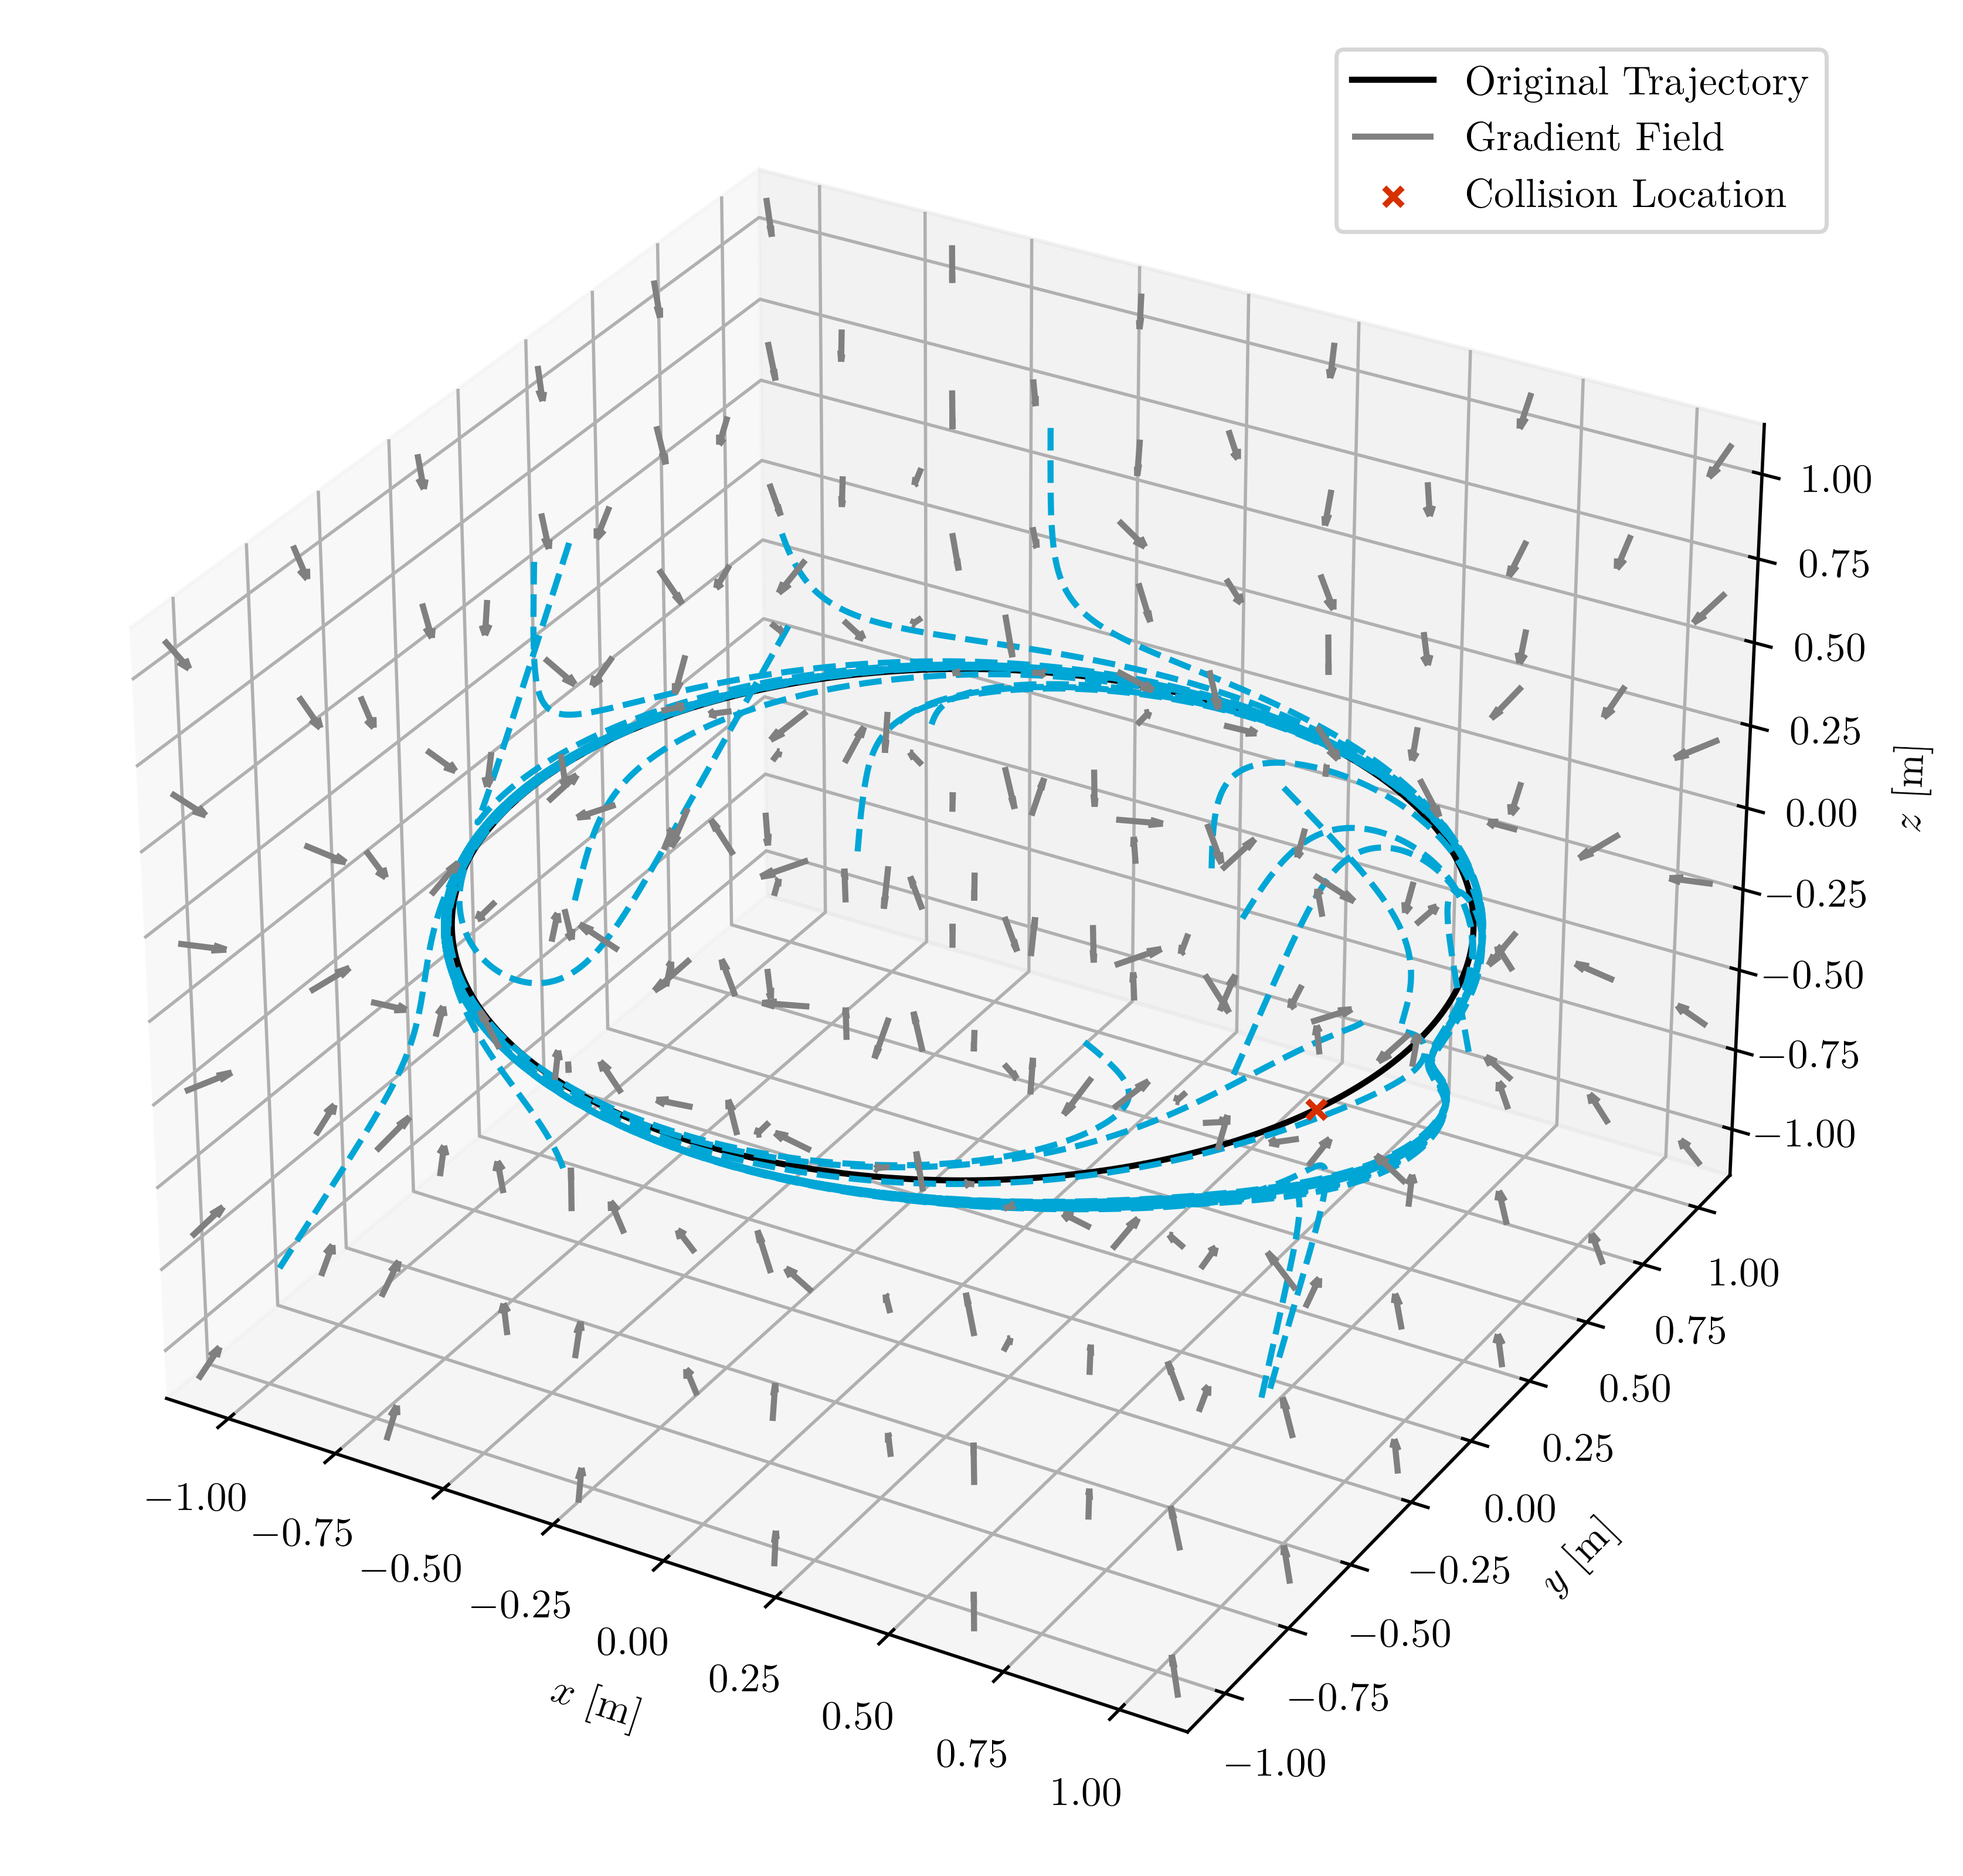
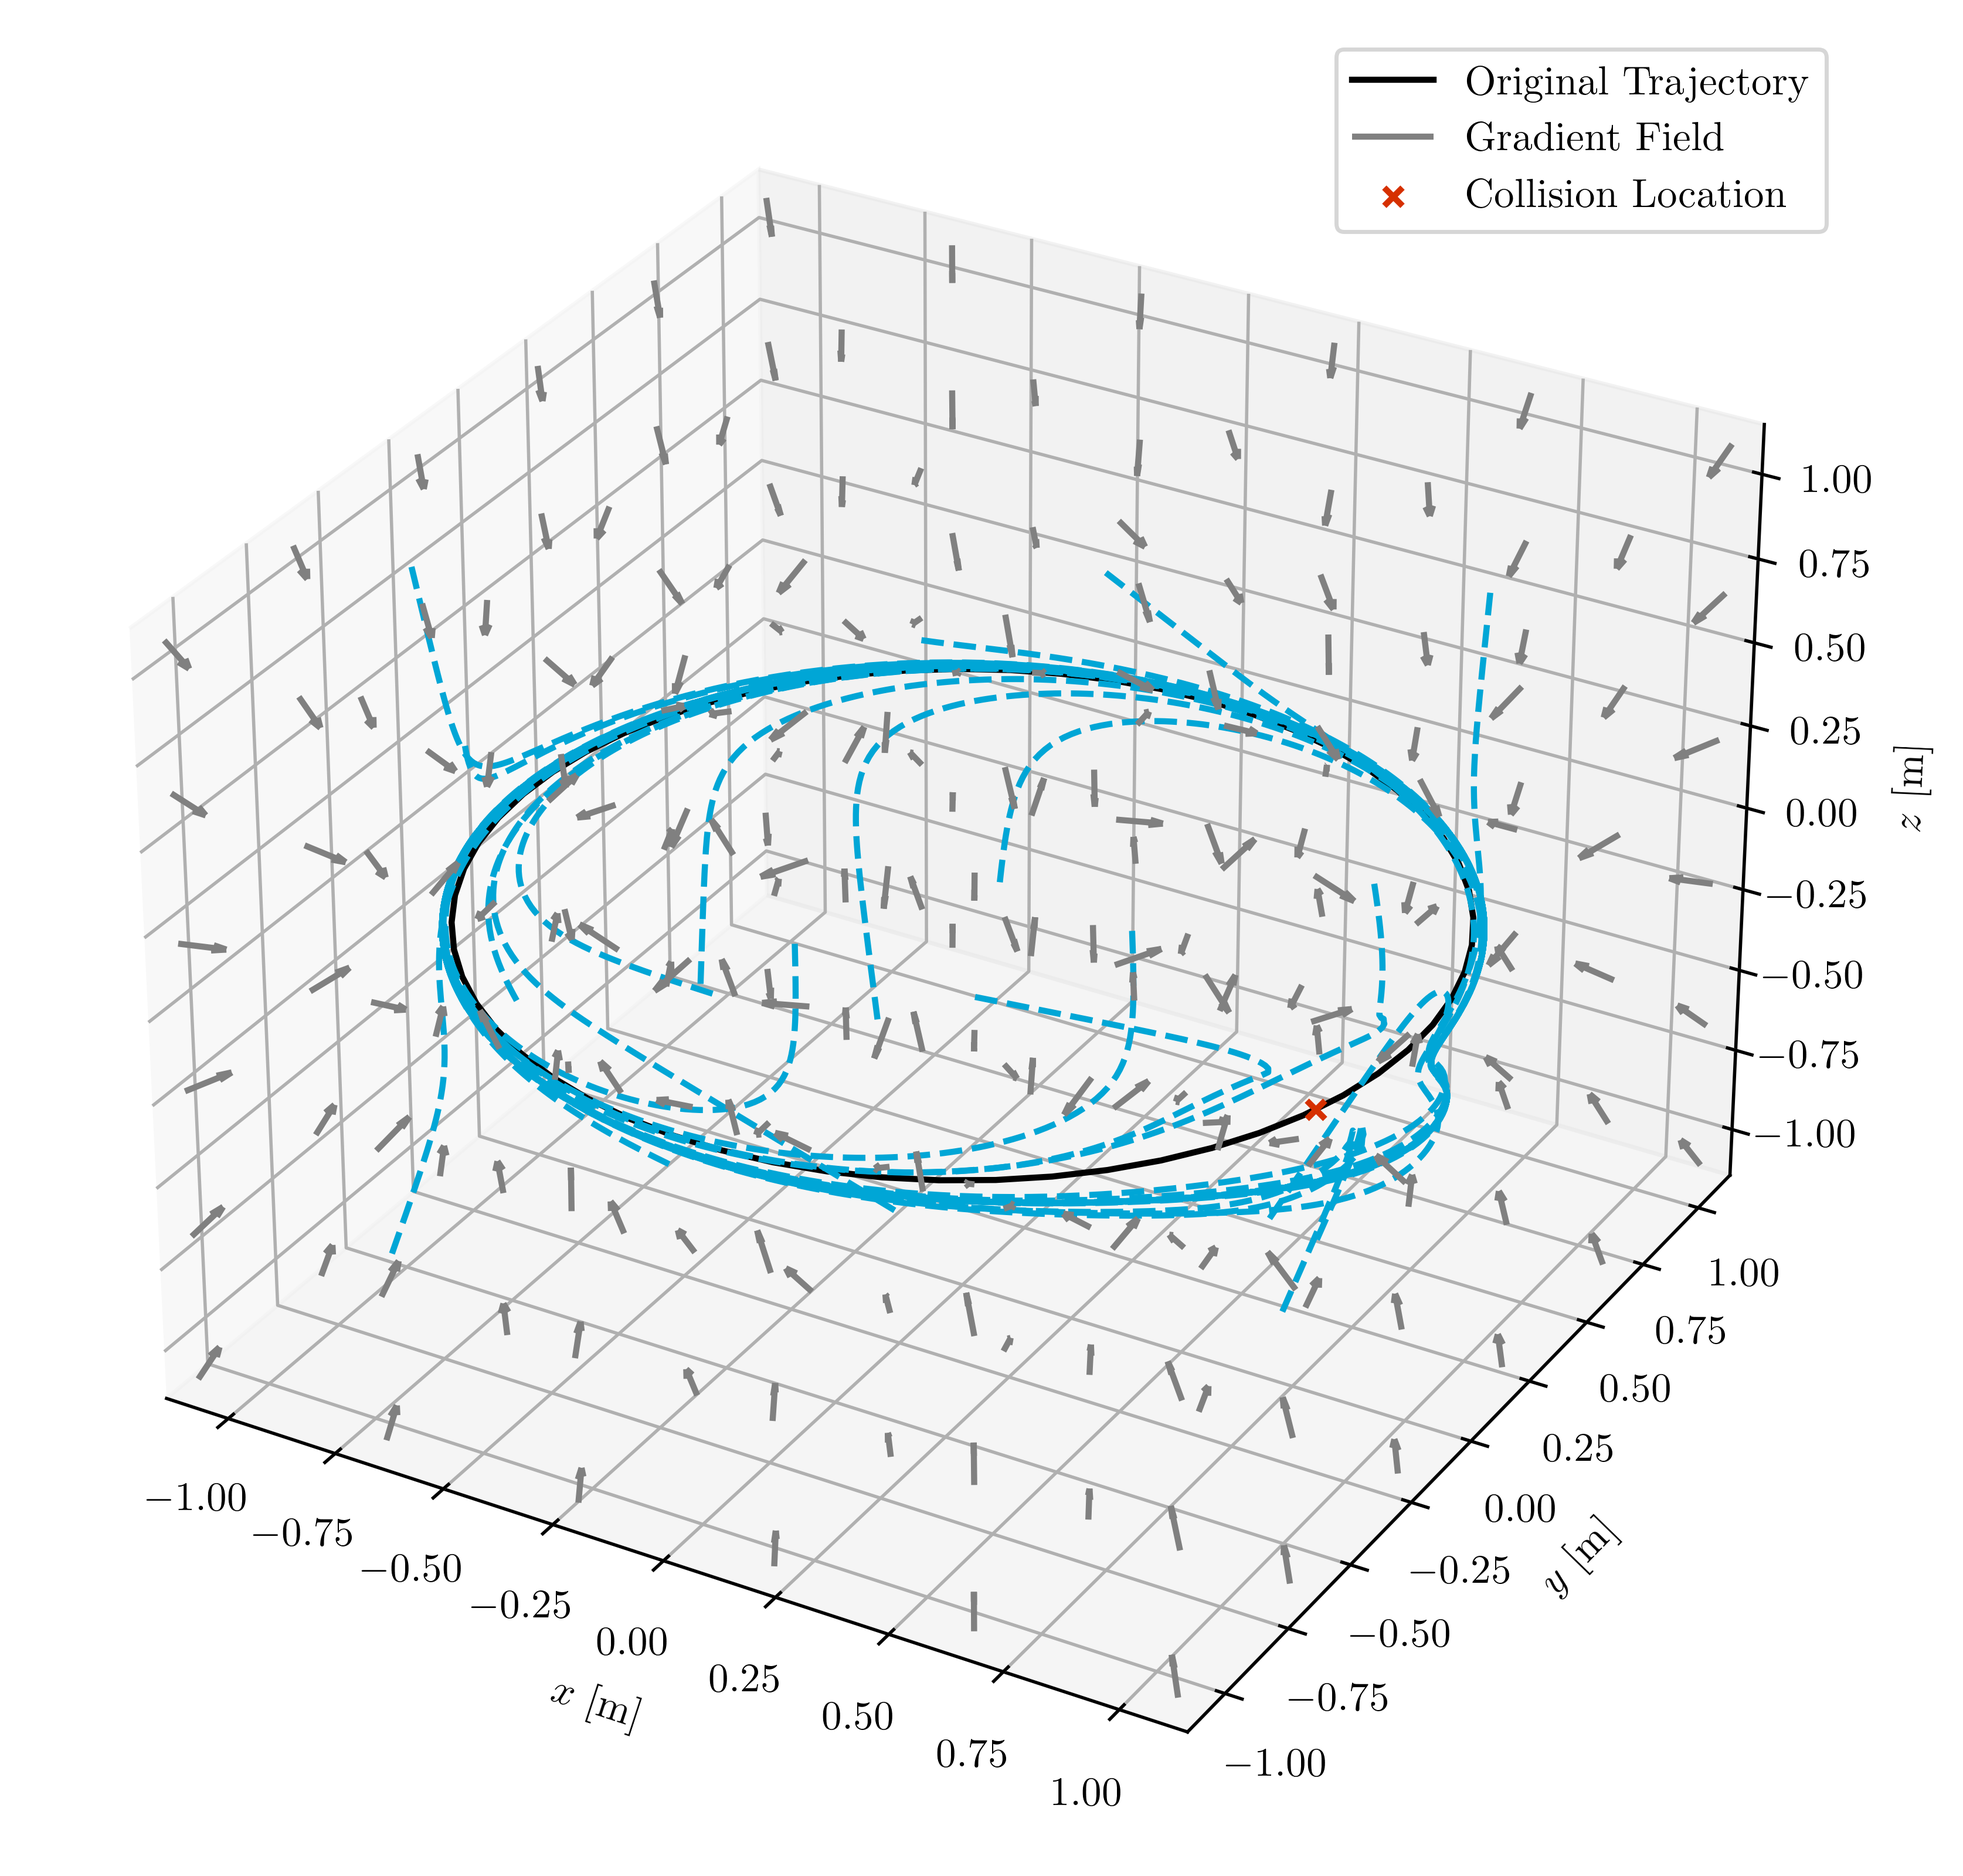
Add newtons method to find nearest point on trajectory
We reduce the brute force searching method to a few sample points
which we use as starting point for a newtons method algorithm which
will converge within a few iterations, since we're starting close
to the true value.

Changed region(s): [[0.2174, 0.3095, 0.7766, 0.7118], [0.6213, 0.7118, 0.6523, 0.7427], [0.3417, 0.4952, 0.3728, 0.5261]]

diff --git a/gradient_field.py b/gradient_field.py
@@ -18,15 +18,35 @@ class GradientField(object):
         return np.array([np.sum([i * self.coeff[0, i] * t**(i-1) for i in range(1, len(self.coeff[0]))], axis=0),
                          np.sum([i * self.coeff[1, i] * t**(i-1) for i in range(1, len(self.coeff[1]))], axis=0),
                          np.sum([i * self.coeff[2, i] * t**(i-1) for i in range(1, len(self.coeff[2]))], axis=0)])
+    
+    def ddf(self, t):
+        return np.array([np.sum([i * (i-1) * self.coeff[0, i] * t**(i - 2) for i in range(2, len(self.coeff[0]))], axis=0),
+                         np.sum([i * (i-1) * self.coeff[1, i] * t**(i - 2) for i in range(2, len(self.coeff[1]))], axis=0),
+                         np.sum([i * (i-1) * self.coeff[2, i] * t**(i - 2) for i in range(2, len(self.coeff[2]))], axis=0)])
    
     def add_collision(self, collision: tuple) -> None:
         self.collisions.append(collision)
      
+    def find_nearest_t(self, x, iter=2):
+
+        distances2 = (self.traj[0, :] - x[0])**2 + (self.traj[1, :] - x[1])**2 + (self.traj[2, :] - x[2])**2
+        t = self.t[np.argmin(distances2)]
+        
+        #t = 0.5
+
+        dg = lambda t: 2*(np.sum((self.f(t) - x) * self.df(t)))
+        ddg = lambda t: 2*(np.sum(self.df(t)**2 + (self.f(t) - x) * self.ddf(t)))
+
+        for _ in range(iter):
+           t = t - dg(t) / ddg(t)
+
+        return min(max(t, 0), 1)
+
+
     def field(self, x, y, z, gamma=0.925):
 
         # Find minimum distance trajectory point
-        distances2 = (self.traj[0, :] - x)**2 + (self.traj[1, :] - y)**2 + (self.traj[2, :] - z)**2
-        t_min = self.t[np.argmin(distances2)]
+        t_min = self.find_nearest_t(np.array([x, y, z]))
 
         # Now compute the normalized distance vector
         distance_vector = (self.f(t_min).flatten() - np.array([x,y,z]))

diff --git a/sinusoidal_gradient_field.py b/sinusoidal_gradient_field.py
@@ -15,3 +15,9 @@ class SinusoidalGradientField(GradientField):
             self.coeff[0, 0] * self.coeff[0, 1] * np.cos(self.coeff[0, 1] * t + self.coeff[0, 2]),
             self.coeff[1, 0] * self.coeff[1, 1] * np.cos(self.coeff[1, 1] * t + self.coeff[1, 2]),
             self.coeff[2, 0] * self.coeff[2, 1] * np.cos(self.coeff[2, 1] * t + self.coeff[2, 2])])
+    
+    def ddf(self, t):
+        return np.array([
+            -self.coeff[0, 0] * self.coeff[0, 1]**2 * np.sin(self.coeff[0, 1] * t + self.coeff[0, 2]),
+            -self.coeff[1, 0] * self.coeff[1, 1]**2 * np.sin(self.coeff[1, 1] * t + self.coeff[1, 2]),
+            -self.coeff[2, 0] * self.coeff[2, 1]**2 * np.sin(self.coeff[2, 1] * t + self.coeff[2, 2])])

diff --git a/replan.py b/replan.py
@@ -11,7 +11,7 @@ matplotlib.rcParams["font.family"] = "serif"
 
 def main():
     # Number of trajectory points
-    n = 1000
+    n = 60
 
     # Init the time vector
     t = np.linspace(0, 1, n)
